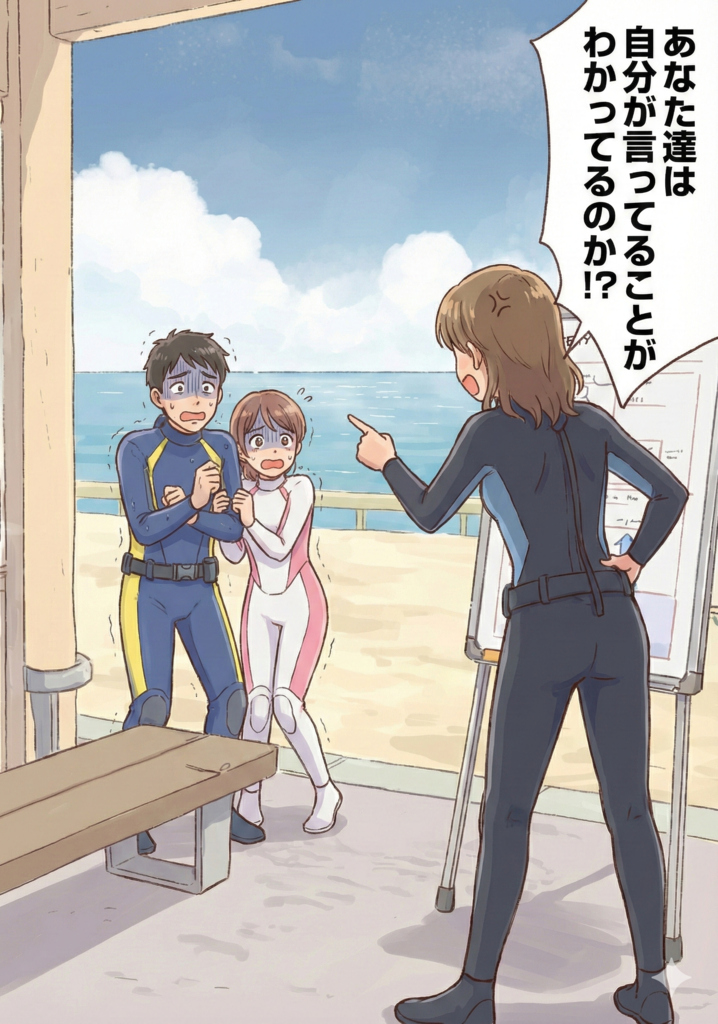
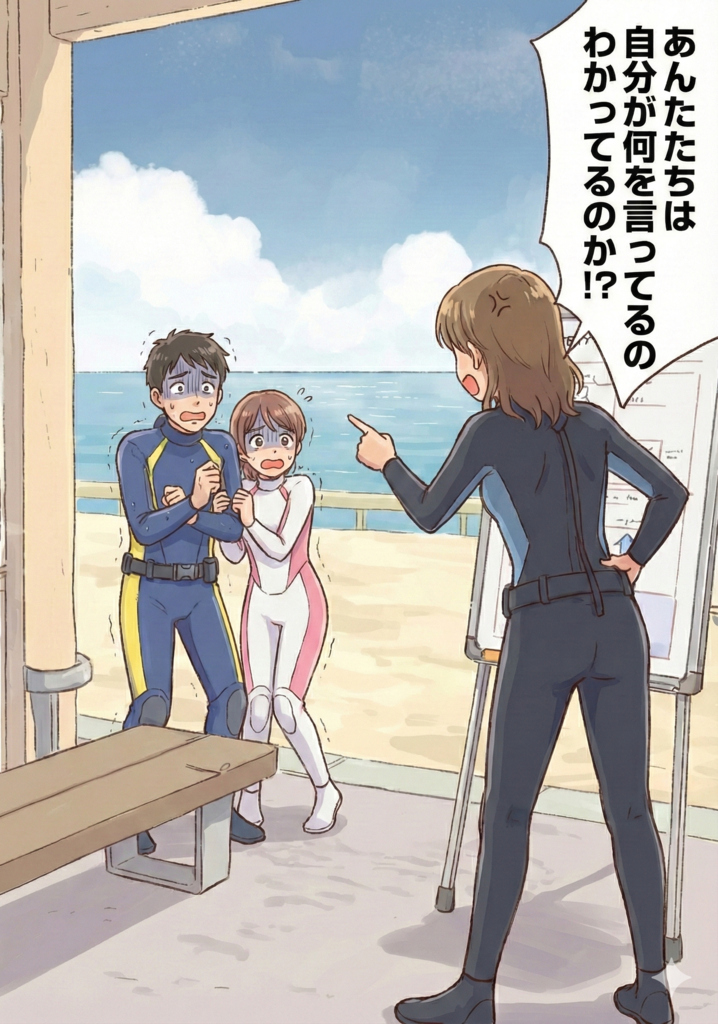
少し変更そしてセリフを変えたので画像の差し替え

diff --git a/202601/23.html b/202601/23.html
@@ -73,7 +73,7 @@
 			<h4>【Diving Spot Triton 時代 - 世の中の傾向としてのバディシステムの崩壊】</h4>
 			<p>二人の人物が登場します。丘くん (仮名) と原西さん (仮名) です。ぼくがアシスタント・インストラクターに認定される直前と直後の話になります。二人はぼくを激しく怒らせたんですね。</p>
 			<p>ここで二人を取り上げるのは彼と彼女を非難するためではありません。そのときぼくが何に対してどのように腹を立てて怒ったのかを描くことで、ぼくにとってバディがどんな存在だったかを浮き彫りにするためです。</p>
-			<p>当時ぼくが感じていたり、実際に口に出した、きつい表現、厳しい表現もでてきますが、それは二人を非難するためではありません。30 年前に一時的にせよ一緒に過ごした人たちを今更非難する意味がまったくありません。そんなことは無意味です。</p>
+			<p>当時ぼくが感じていたり、実際に口に出した、きつい表現、厳しい表現もでてきますが、それは二人を非難するためではありません。30 年前に一時的にせよ一緒に過ごした人たちを今更非難する意味はまったくありません。そんなことは無意味です。</p>
 			<p>当時ぼくが何を大切に思っていたか、そして一緒に潜る人たちにどのようになって欲しかったのかを明らかにするためだと了解していただければ幸いです。</p>
 			<p>もしかすると当時のぼくの熱量を思い出して、若干感情が乗って筆が滑ってしまうかも知れません。そのときは偏屈なジジイの戯言だと思って何卒ご容赦ください。</p>
 			<br>
@@ -83,7 +83,7 @@
 			<p><strong>バディに死なれて後悔しない。</strong></p>
 			<p><strong>そういうダイバーになって欲しい。</strong></p>
 			<p>ただそれだけでした。</p>
-			<p>そのためのツールとして講習があり、機材があり、継続コースがあり、そして考えられる中で最強、最高のものとしてバディ・システムが存在していました。</p>
+			<p>そのためのツールとして講習があり、機材があり、継続コースがあり、そしてぼくに考えることができる中で最強、最高のものとしてバディ・システムが存在していました。</p>
 			<div class="container">
 				<div class="right">
 					<figure>
@@ -91,13 +91,13 @@
 						<figcaption>Gemini により生成</figcaption>
 					</figure>
 				</div>
-				<p>ぼくは、自立して、バディと共に安全にダイビングを楽しむ、そんなダイバーを師匠が育てているのを Diving Spot Triton で目撃して、師匠に弟子入りを志願しました。</p>
-				<p>ですがそんな Triton にも、自立することに興味がなく、バディとはなにか、いかに自分を助けてくれて、自分もそうでなければならないのか、ということを一切考えない人たちが常連さんに混ざっていることを知ることになります。</p>
+				<p>自立して、バディと共に安全にダイビングを楽しむ、そんなダイバーを師匠が育てているのを、ぼくは Diving Spot Triton で目撃して、師匠に弟子入りを志願しました。</p>
+				<p>ですがそんな Triton にも、自立することに興味がなく、バディとはなにか、バディがいかに自分を助けてくれて、自分もバディを助ける存在でなければならないのか、ということを一切考えない人たちが常連さんに混ざっていることを知ることになります。</p>
 				<p>まずは丘くん。</p>
 				<p>彼はぼくがアシスタント・インストラクターになる少し前にぼくに近づいてきました。</p>
 				<p>プライベートで一緒に潜りに行かないか？と誘われたのです。</p>
 				<p>ぼくはまだアシスタント・インストラクターに認定される前で、まだ Diving Spot Triton の客という立場でしたし、断る理由もないかと思って承諾しました。</p>
-				<p>ぼくは和歌山県白浜町の円月島ビーチに潜るのが好きだったので、ぼくが計画すると白浜円月島のビーチばっかりになるよ？と念は押しました。</p>
+				<p>ぼくは和歌山県白浜町の円月島ビーチに潜るのが好きだったので、ぼくが計画すると白浜円月島のビーチばっかりになるよ？どこに入りたいとかある？と念は押しました。</p>
 				<p>でもなんだか暖簾に腕押しのような反応しか返ってきません。小野寺くん (仮名) とのあまりの違いにぼくは不信感を持ちます。</p>
 				<p>そして実際に二人で円月島で 2 本のダイビングをしたのですが、彼はずっとぼくの後ろをくっついてくるだけでした。そして 2 本のダイビングを終えて彼が言ったのが「2 本も同じところでつまらなかった」でした。</p>
 				<p>はぁっ！？なんて言った！？</p>
@@ -111,14 +111,17 @@
 				<p>きみになにかあったらぼくはバディとして全力で君を助けようとするけど、もしぼくになにかあったら君はバディとしてぼくを助けてくれるの？</p>
 				<p>それとも見殺しにしてさっさと家に逃げ帰るの？</p>
 				<p>君は本当にダイバーなの？</p>
+				<p>ぼくは帰りの車の中で、ずっと彼を、バディとして一切行動しない彼を非難し続けていました。</p>
 				<p>ぼくの怒りは大阪に帰るまで、いや、帰っても収まりませんでした。</p>
+				<p>それ以後、彼は二度とぼくに声をかけなくなりました。</p>
 				<p>その後、丘くんはぼくに対するのと同じようなことを Triton の常連さんに持ちかけていたそうです。どうも常連さんから苦情が入って、師匠が Triton はゲストにダイバーとして育ってもらって卒業してもらうことを最重要使命にしているから、その行動をやめてくれ、常連さんに中途半端な状態で店を離れられて事故になったら大変だから、という話をしたようです。</p>
 				<p>その辺りの話は Triton から丘くんの姿を見なくなってから師匠から聞きました。もちろん実際の会話までは教えてもらっていません。ですが師匠は「金のことしか話さないやつはダメだ。ダイビングは無理だ」と言っていたので、たぶん丘くんのことを言っていたのでしょう。</p>
-				<p>つまり当時の丘くんは、安全や、ダイバーとしての成長や、ダイビング仲間、バディより、お金を取ったのだとぼくは理解しました。</p>
+				<p>つまり当時の丘くんは、安全や、ダイバーとしての成長や、ダイビング仲間、バディより、ガイドという赤の他人への完全依存とお金を取ったのだとぼくは理解しました。</p>
 				<p>ダイビングはお金がかかります。潜り続けようとすると金策をどうしても考えなければなりません。だからお金に固執する気持ちはぼくもわかります。ぼくも金策には苦労していましたから。</p>
-				<p>でもお金は優先順位のもう少し下に持ってこないと、スクーバダイビングという人が絶対に生きることができない場所で行うアクティビティでは危険です。</p>
+				<p>でもお金は優先順位のもう少し下に持ってこないと、スクーバダイビングという人が絶対に生きることができない場所で行うアクティビティでは危険です。彼はそのことを一切理解していませんでした。</p>
 				<p>お金に固執するならばダイビングを続けることはお勧めできません。さっさと足を洗ったほうが賢明です。お金をあまりかけずに充実感を得ることができる趣味はいくらでもあります。お金を気にするなら、ダイビングなんかやめてそっちに移ったほうがよほど賢明で世の中の常識ともマッチします。</p>
-				<p>それでもどうしてもダイビングをやめられないのなら、お金がかかると腹をくくるしかないのです。</p>
+				<p>それでもどうしてもダイビングをやめられないのなら、お金がかかる。そしてダイバーとして成長するしか無いと腹をくくるしかないのです。</p>
+				<p>ダイバーはガイドと一緒であれば安全であると現実には存在しない妄想にすがるのではなく、自らより安全なダイバーになるしか死から逃れる方法がありません。それを怠れば、いつかはロシアンルーレットの弾丸が頭を撃ち抜きます。</p>
 				<br>
 				<p>原西さんが登場します。</p>
 				<p>彼女はぼくがアシスタント・インストラクターになった途端に近づいてきました。ぼくは非常勤でしたが、すでに Diving Spot Triton のスタッフになっていました。</p>
@@ -148,7 +151,7 @@
 				<p>ぼくが怒っているのは、依存するために、自分の欲望を満たすためだけに、相手に近づいて言って、人を消費するように、どんどんと依存先を変えていって人を捨てていっているってことでした。</p>
 				<p>彼女はダイバーとして自立しようとも、成長しようとも、もちろん自分自身の安全にすら責任を持とうしませんでした。当然バディのことなんて彼女にとってはどうでもよかったのでした。便利に交換できる無料サービスか何かと思っていたのでした。</p>
 				<p>だからぼくは彼女が大っ嫌いでした。今でも嫌いです。</p>
-				<p>彼女をダイバーと思ったことはありません。だからプライベートであればなおさら彼女と潜るという選択肢はなかったのでした。</p>
+				<p>彼女をダイバーと思ったことはただの一度もありません。だからプライベートであればなおさら彼女と潜るという選択肢はなかったのでした。</p>
 				<br>
 			</div>
 			<p>ちょっとぼく自身の当時の感情が乗ってしまったので分かりにくくなってしまったと思うので整理します。</p>
